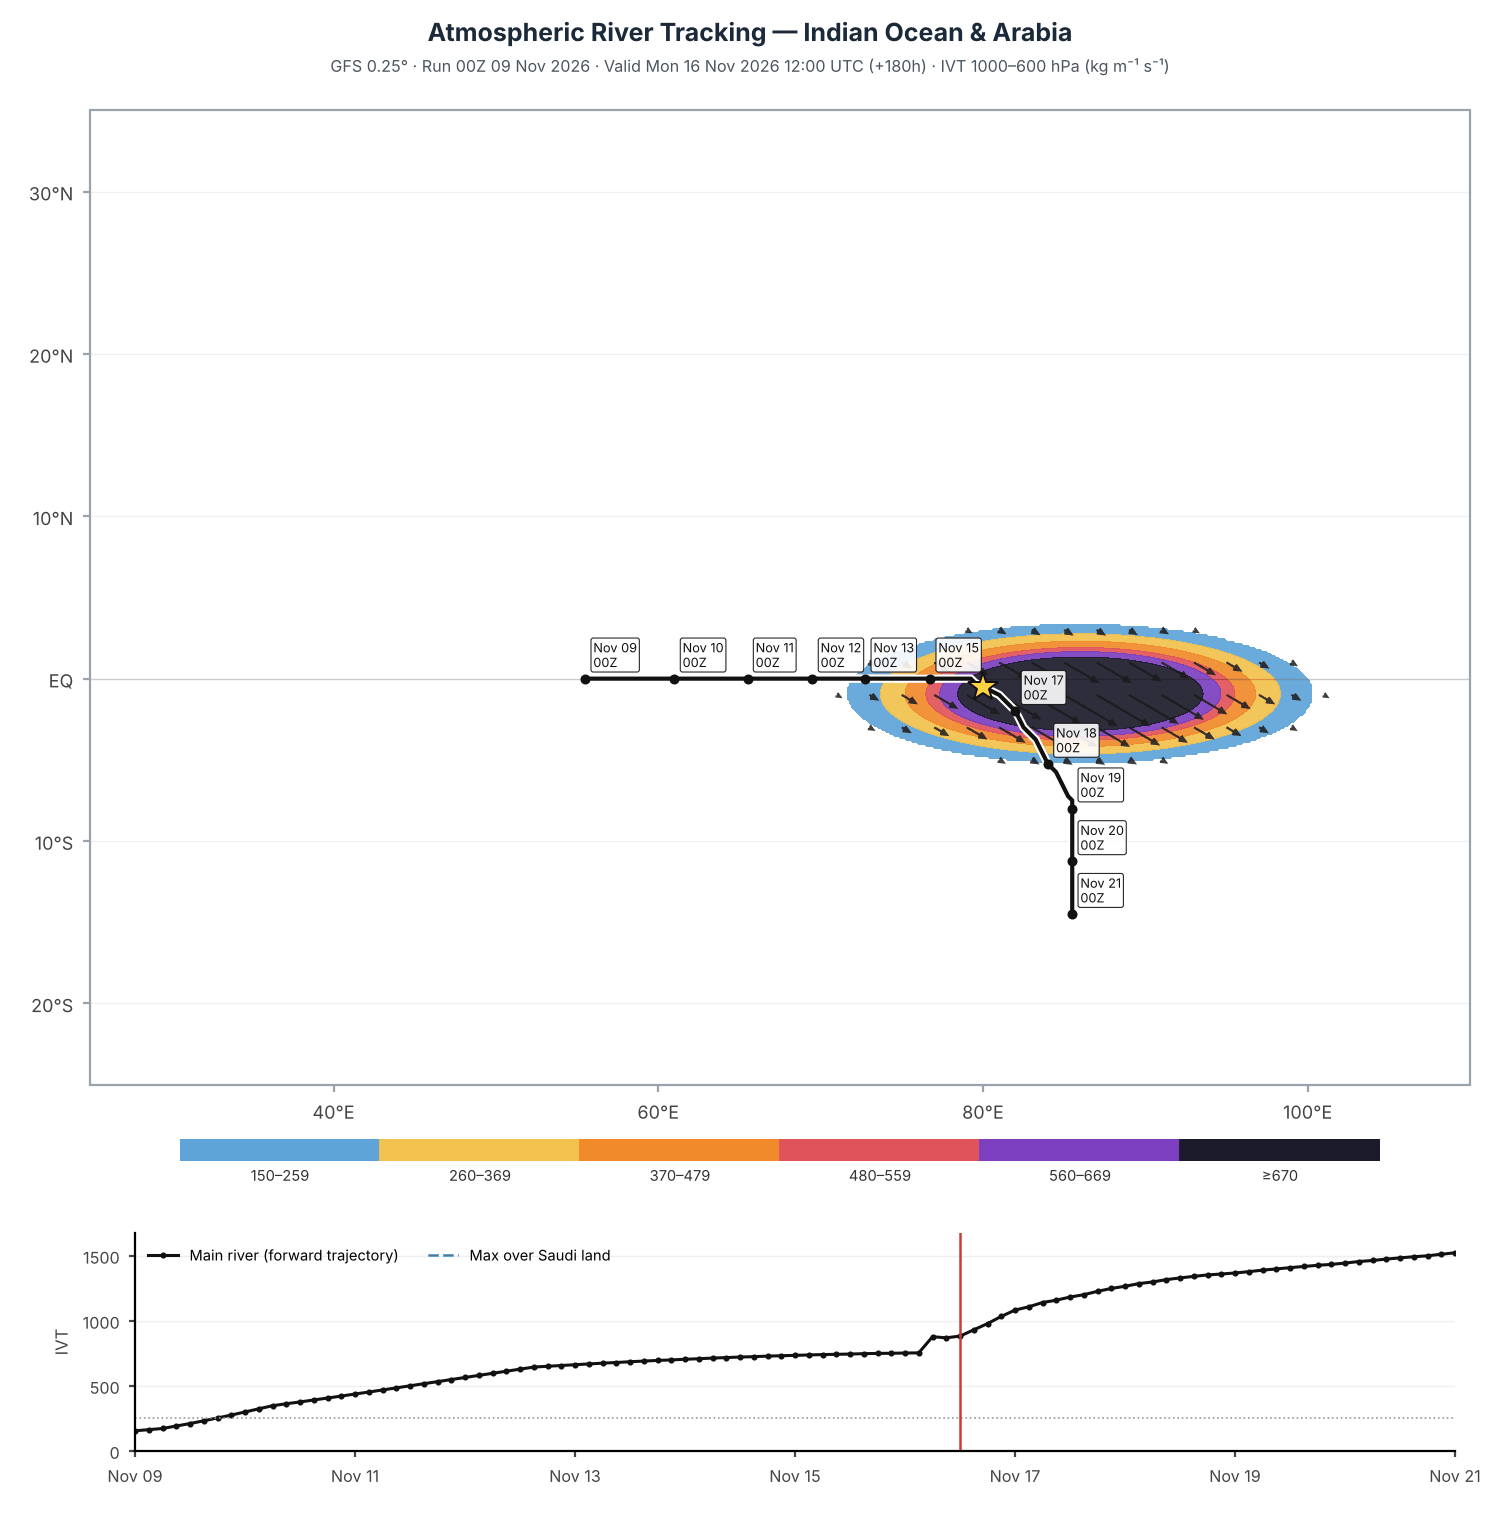
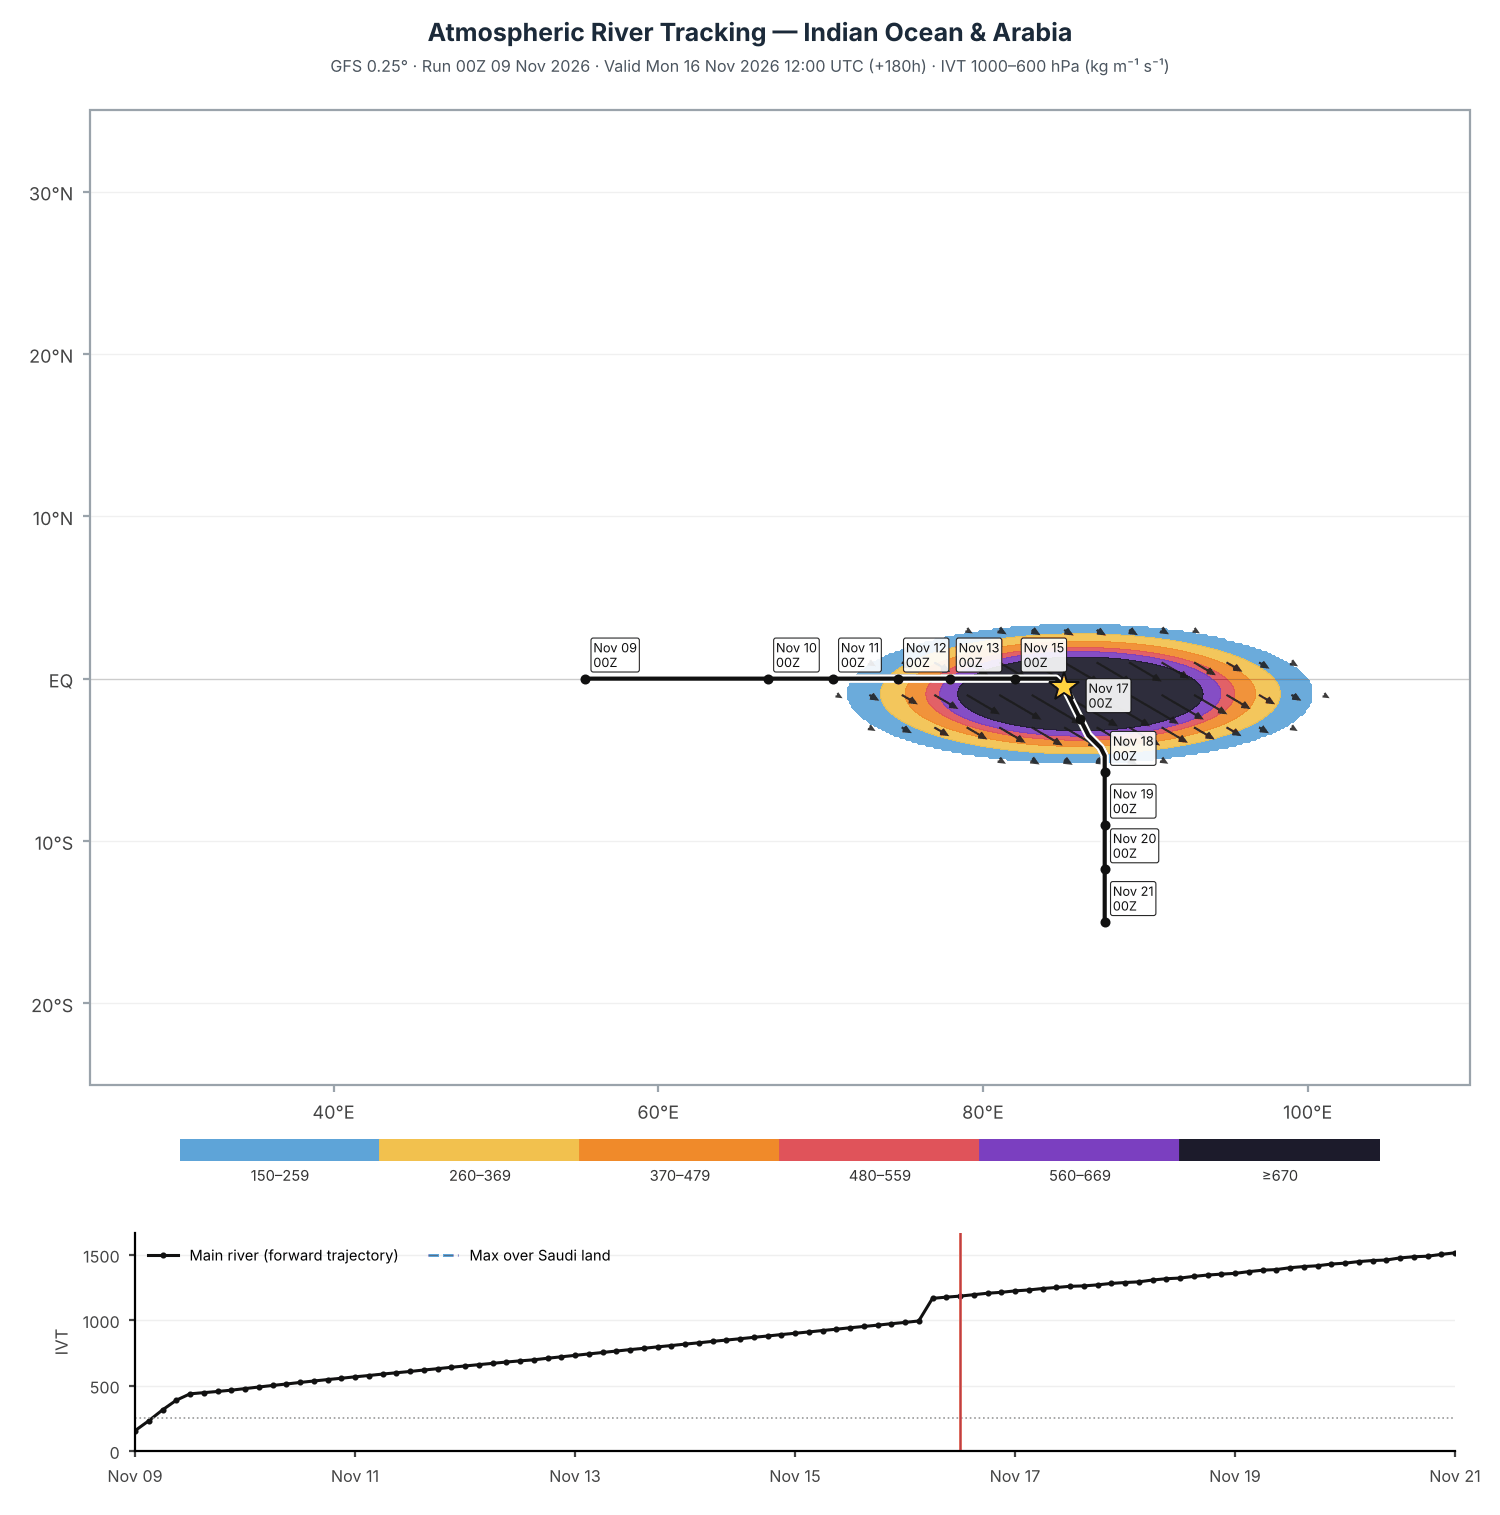
Rivers: walk from the upstream end to the core along the transport, then follow the core; Kingdom values on the one-degree field
Claude-Session: https://claude.ai/code/session_014HvvBLd1Zxg4VqBQiZPByu

Changed region(s): [[0.46, 0.4033, 0.7667, 0.6205], [0.368, 0.8376, 0.7667, 0.8997], [0.092, 0.8997, 0.368, 0.9617]]

diff --git a/server/climate/ar.py b/server/climate/ar.py
@@ -3,9 +3,9 @@
 Water-vapour transport integrated from 1000 to 600 hPa (IVT, kg m^-1 s^-1) from the GFS 0.25 degree forecast every
 3 hours for 12 days.
 
-The river is followed forward from the upstream end of the river (where it forms): every 3 hours the point moves to
-the strongest transport within reach of where the recent motion would take it, so it walks down the river to its
-core and then moves with the core ("feature continuity"). The core value is the raw transport at the point.
+The river is followed forward from its upstream end (where it forms): the point first walks down the river along the
+transport to its core, then moves with the core ("feature continuity"). The core value is the raw transport at the
+point; over the Kingdom the transport is taken on a one-degree scale.
 A second track follows the first river that comes near the Kingdom, and the largest transport over the Kingdom's land
 is kept for every time.
 
@@ -198,24 +198,42 @@ def _upstream(ms, qu, qv, lat, lon, la0, lo0):
     return la, lo
 
 
-def _follow(MS, MAG, lat, lon, k0, la0, lo0, stay=None):
-    """Follow the river forward from step k0: every 3 hours the strongest transport within reach of the expected
-    position (the last position moved on by the recent motion). From an upstream starting point this walks down
-    the river to its core within the first day, then moves with the core."""
+def _follow(MS, MAG, lat, lon, k0, la0, lo0, stay=None, QU=None, QV=None):
+    """Follow the river forward from step k0.
+
+    With QU/QV (smoothed transport) the start is the river's upstream end, and the point first walks down the river
+    along the transport, 1.5 degrees every 3 hours on the axis, until it reaches the core. From there on it moves with
+    the core: every step the strongest transport within reach of where the recent motion would take it."""
     stay = stay or (BOX[0] + 1, BOX[1] - 1, BOX[2] + 1, BOX[3] - 1)
-    reach = 2.5 * STEP_H / 3.0                     # degrees in one step (about 25 m/s at most)
+    f = STEP_H / 3.0
+    reach, width = 4.0 * f, 2.0 * f
     pts = [(k0, la0, lo0)]
     vla = vlo = 0.0
+    walking = QU is not None
     for k in range(k0 + 1, len(MS)):
         _, la, lo = pts[-1]
-        gla, glo = la + vla, lo + vlo
-        d = _dist(lat, lon, gla, glo)
-        score = np.where((MS[k] >= THR_KEEP) & (d <= reach), MS[k] * np.exp(-0.5 * (d / (0.6 * reach)) ** 2), -1)
+        if walking:
+            u, v = _at(QU[k], lat, lon, la, lo), _at(QV[k], lat, lon, la, lo)
+            sp = max(float(np.hypot(u, v)), 1e-6)
+            gla = la + 1.5 * f * v / sp
+            glo = lo + 1.5 * f * u / sp / max(np.cos(np.radians(la)), 0.3)
+            d = _dist(lat, lon, gla, glo)
+            score = np.where((MS[k] >= THR_KEEP) & (d <= 1.0 * f), MS[k], -1)
+        else:
+            gla, glo = la + vla, lo + vlo
+            d = _dist(lat, lon, gla, glo)
+            score = np.where((MS[k] >= THR_KEEP) & (d <= reach), MS[k] * np.exp(-0.5 * (d / width) ** 2), -1)
         if score.max() <= 0:
             break
         j, i = np.unravel_index(int(np.argmax(score)), score.shape)
         nla, nlo = float(lat[j]), float(lon[i])
-        vla, vlo = 0.3 * vla + 0.3 * (nla - la), 0.3 * vlo + 0.3 * (nlo - lo)
+        if walking:
+            # the core is reached when nothing within reach downstream is stronger than here
+            ahead = _dist(lat, lon, nla, nlo) <= reach
+            if MS[k][j, i] >= 0.92 * float(MS[k][ahead].max()):
+                walking = False
+        else:
+            vla, vlo = 0.5 * vla + 0.5 * (nla - la), 0.5 * vlo + 0.5 * (nlo - lo)
         pts.append((k, nla, nlo))
         if not (stay[0] <= nla <= stay[1] and stay[2] <= nlo <= stay[3]):
             break
@@ -287,8 +305,10 @@ def analyse(cycle, t0):
     obj = [o for o in _objects(MS[0], mag[0], lat, lon) if IO_BOX[0] <= o[1] <= IO_BOX[1] and IO_BOX[2] <= o[2] <= IO_BOX[3]]
     if obj:
         _, la0, lo0, _, _ = obj[0]
-        sla, slo = _upstream(MS[0], gaussian_filter(qu[0], sig), gaussian_filter(qv[0], sig), lat, lon, la0, lo0)
-        tracks.append({"kind": "main", "pts": _follow(MS, mag, lat, lon, 0, sla, slo)})
+        QU = np.array([gaussian_filter(a, sig) for a in qu])
+        QV = np.array([gaussian_filter(a, sig) for a in qv])
+        sla, slo = _upstream(MS[0], QU[0], QV[0], lat, lon, la0, lo0)
+        tracks.append({"kind": "main", "pts": _follow(MS, mag, lat, lon, 0, sla, slo, QU=QU, QV=QV)})
     # 2. the first river whose core comes near the Kingdom in the first week, if it is not the same one
     for k in range(0, min(len(MS), 7 * 24 // STEP_H + 1)):
         near = [o for o in _objects(MS[k], mag[k], lat, lon)
@@ -307,8 +327,9 @@ def analyse(cycle, t0):
     land = saudi_mask(lat, lon)
     LO, LA = np.meshgrid(lon, lat)
     hj = land & (LA >= HEJAZ_BOX[0]) & (LA <= HEJAZ_BOX[1]) & (LO >= HEJAZ_BOX[2]) & (LO <= HEJAZ_BOX[3])
-    sa = [{"t": t.strftime("%Y-%m-%dT%H:%MZ"), "v": int(round(_masked_max(mag[k], land))),
-           "hejaz": int(round(_masked_max(mag[k], hj)))} for k, t in enumerate(times)]
+    # over the Kingdom the one-degree field: a broad river, not one wet grid point
+    sa = [{"t": t.strftime("%Y-%m-%dT%H:%MZ"), "v": int(round(_masked_max(MS[k], land))),
+           "hejaz": int(round(_masked_max(MS[k], hj)))} for k, t in enumerate(times)]
     out_tracks = []
     for t in tracks:
         pts = [{"t": times[k].strftime("%Y-%m-%dT%H:%MZ"), "k": k, "lat": round(la, 2), "lon": round(lo, 2),
